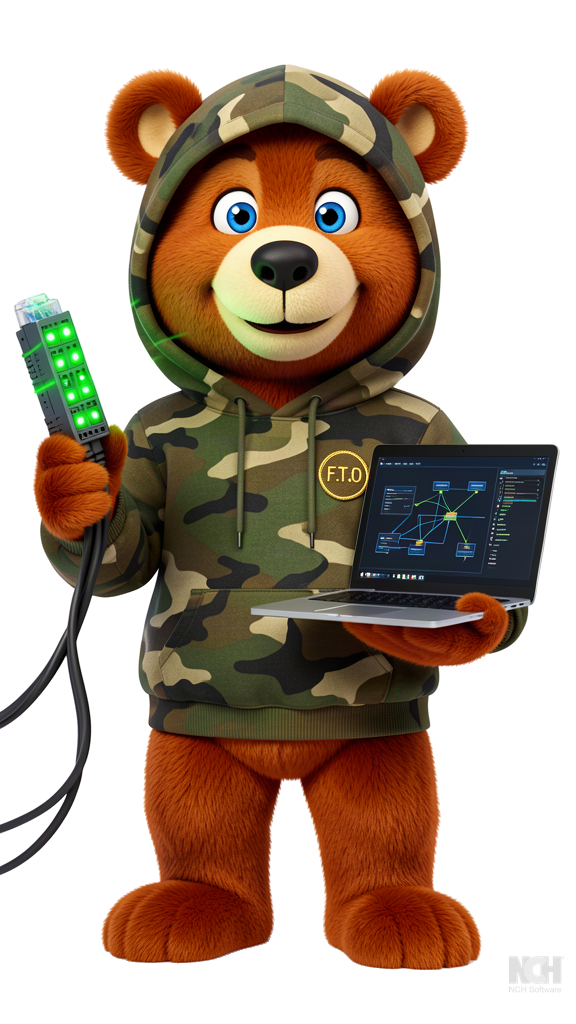
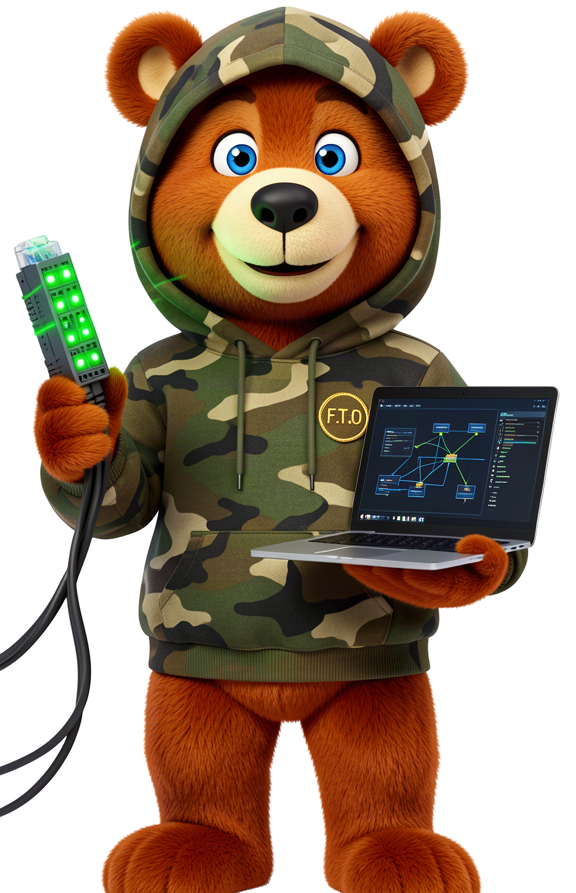
Update to non-watermarked mascots; home hero = crossed arms at double size; restore MTB image
- Replaced 14 mascots (fozzie-03 to 16) with non-watermarked versions
- Home hero now uses fozzie-04-armscrossed (was cyber-security) at doubled 520px size
- Restored fozzie-15-mtb image to MTB page hero (removed border box for transparent mascot)

diff --git a/index.html b/index.html
@@ -137,7 +137,7 @@
       font-size: 1rem; color: var(--text-muted); max-width: 600px; margin: 1rem auto 2rem;
     }
     .hero .bear-img {
-      width: 260px; height: 260px; object-fit: contain;
+      width: 520px; height: 520px; object-fit: contain;
       margin-bottom: 2rem;
     }
     .btn {
@@ -362,7 +362,7 @@
       nav ul li a { display: block; padding: 1rem 2rem; font-size: 1rem; }
 
       .hero { padding: 6rem 1rem 3rem; min-height: 90vh; }
-      .hero .bear-img { width: 160px; height: 160px; }
+      .hero .bear-img { width: 320px; height: 320px; }
       .hero h1 { font-size: clamp(2rem, 8vw, 3rem); }
       .hero .subtitle { font-size: 1.1rem; }
       .hero .tagline { font-size: 0.9rem; }
@@ -441,7 +441,7 @@
 
 <section class="hero">
   <div class="container">
-    <img class="bear-img" src="/mascots/fozzie-10-cybersecurity.png" alt="Fozzie the Cyber Bear mascot">
+    <img class="bear-img" src="/mascots/fozzie-04-armscrossed.png" alt="Fozzie the Cyber Bear mascot">
     <h1><span class="highlight">Billy Forrest</span></h1>
     <p class="subtitle">Multi-Discipline Technical Trainer &amp; Cybersecurity Educator</p>
     <p class="tagline">30+ years delivering high-impact Cisco networking, cybersecurity, and IT training — from the classroom to the front line.</p>

diff --git a/mtb/index.html b/mtb/index.html
@@ -235,8 +235,7 @@
     }
     .mtb-hero .bear-img {
       width: 570px; height: auto; object-fit: contain;
-      margin-bottom: 2rem; border-radius: 16px;
-      border: 1px solid var(--border);
+      margin-bottom: 2rem;
     }
     .mtb-hero h1 .highlight { color: #e3503a; }
     .mtb-hero .subtitle { font-size: 1.3rem; color: var(--text-dim); margin-bottom: 0.5rem; }
@@ -388,6 +387,7 @@
       <div style="font-family:'Arial Black','Segoe UI',Arial,sans-serif; font-size:3.4rem; font-weight:900; letter-spacing:0.05em; line-height:1.05; color:#ffd500; text-shadow:2px 3px 6px rgba(0,0,0,0.4);">MIAS</div>
       <div style="font-family:'Segoe UI',Arial,sans-serif; font-size:1.05rem; font-weight:700; letter-spacing:0.09em; line-height:1.3; color:#e3503a; margin-top:0.4rem; text-transform:uppercase;">Mountain Bike Instructors Award Scheme</div>
     </a>
+    <img class="bear-img" src="/mascots/fozzie-15-mtb.png" alt="Fozzie the Cyber Bear Mountain Biking Instructor">
     <h1><span class="highlight">Mountain Bike</span> Instructor</h1>
     <p class="subtitle">Trail Leadership &amp; Technique Coaching</p>
     <p class="tagline">Accredited mountain bike instruction — from foundation skills to advanced trail riding.</p>
